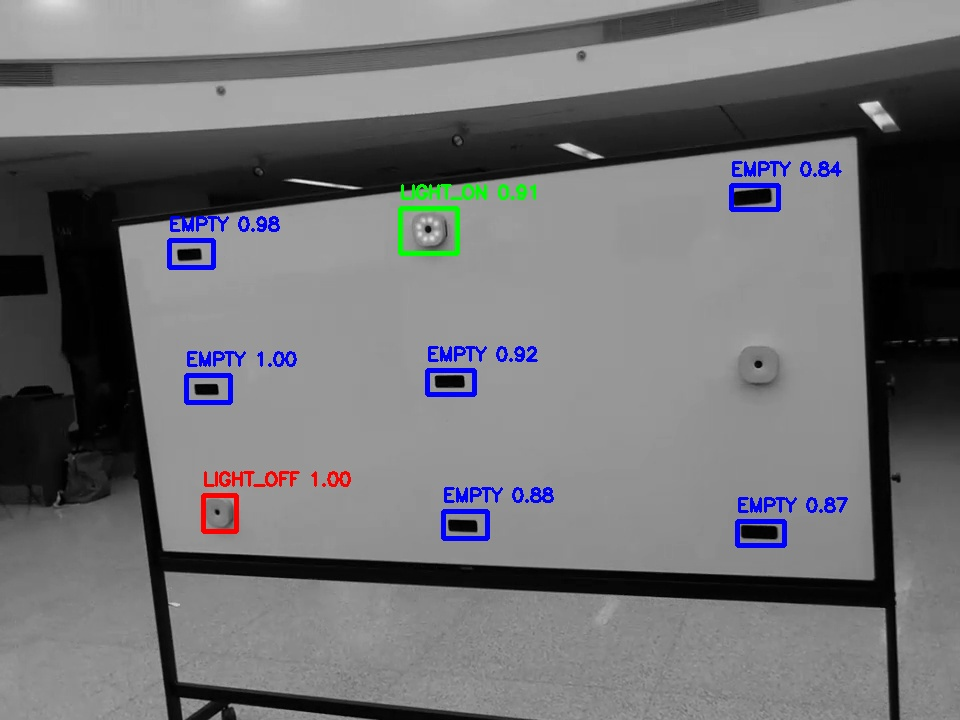
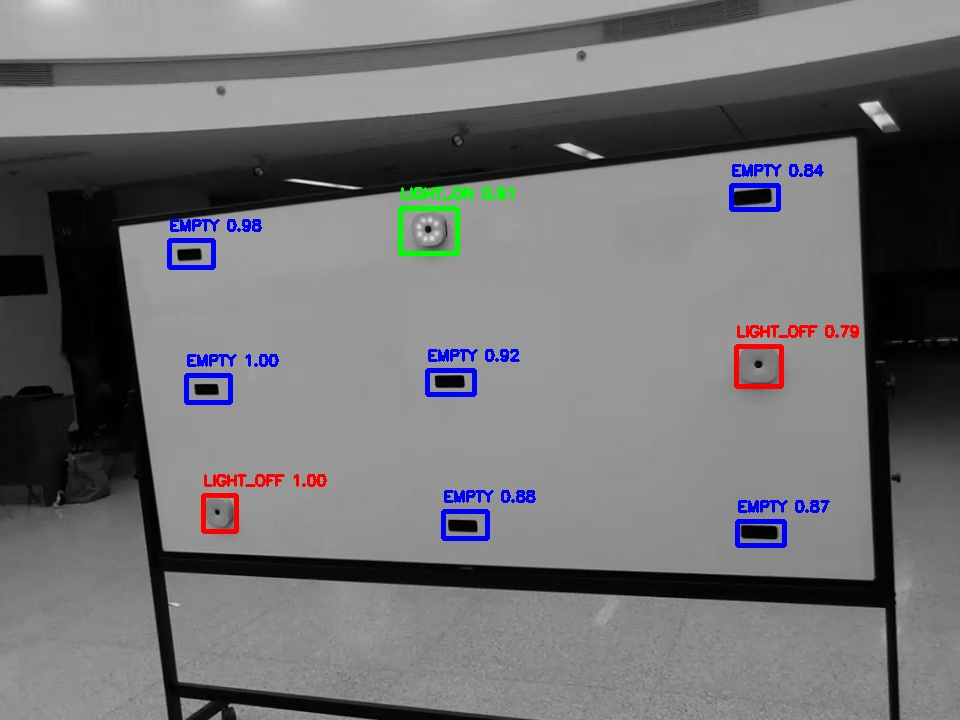
增加网格匹配逻辑

diff --git a/scripts/test_find_template.py b/scripts/test_find_template.py
@@ -12,41 +12,18 @@ import numpy as np
 
 TEMPLATES = {
     "EMPTY":     (["template/EMPTY_1.png", "template/EMPTY_2.png"],     (255, 0, 0)),      # 蓝
-    "LIGHT_ON":  ("template/LIGHT_ON.png",  (0, 255, 0)),      # 绿
-    "LIGHT_OFF": (["template/LIGHT_OFF_1.png","template/LIGHT_OFF_2.png","template/LIGHT_OFF_3.png"], (0, 0, 255)),      # 红
+    "LIGHT_ON":  (["template/LIGHT_ON_1.png", "template/LIGHT_ON_2.png"],  (0, 255, 0)),      # 绿
+    "LIGHT_OFF": (["template/LIGHT_OFF_1.png","template/LIGHT_OFF_2.png","template/LIGHT_OFF_3.png","template/LIGHT_OFF_4.png"], (0, 0, 255)),      # 红
 }
 
-# 若一个类型有多张样张，覆盖掉上面同名 key 即可（用列表替代单路径）
-# 示例：LIGHT_ON 有 3 种样张，EMPTY 有 2 种
-# TEMPLATES = {
-#     "EMPTY":     (["template/EMPTY_1.png", "template/EMPTY_2.png"], (255, 0, 0)),
-#     "LIGHT_ON":  (["template/LIGHT_ON_a.png", "template/LIGHT_ON_b.png", "template/LIGHT_ON_c.png"], (0, 255, 0)),
-#     "LIGHT_OFF": ("template/LIGHT_OFF.png", (0, 0, 255)),
-# }
+THRESHOLD = 0.75
 
-THRESHOLD = 0.8
-
-
-def match_template(gray_img, gray_tmpl):
-    """匹配单个模板，返回原始匹配列表 [(x, y, confidence, tw, th), ...]"""
-    th, tw = gray_tmpl.shape
-    result = cv2.matchTemplate(gray_img, gray_tmpl, cv2.TM_CCOEFF_NORMED)
-    ys, xs = np.where(result >= THRESHOLD)
-    return [(x, y, result[y, x], tw, th) for x, y in zip(xs, ys)]
-
-
-def nms(matches, min_dist=None):
-    """非极大值抑制，返回去重后的匹配列表"""
-    if not matches:
-        return []
-    if min_dist is None:
-        min_dist = min(min(m[3], m[4]) for m in matches) // 2
-    matches = sorted(matches, key=lambda m: -m[2])  # 按置信度降序
-    keep = []
-    for m in matches:
-        if all(np.hypot(m[0] - k[0], m[1] - k[1]) > min_dist for k in keep):
-            keep.append(m)
-    return keep
+# 白板 3×3 目标点的三维世界坐标 (x, y, z)，行优先
+WORLD_TARGETS = [
+    (-75, 220, 150), (0, 220, 150), (75, 220, 150),
+    (-75, 220, 112.5), (0, 220, 112.5), (75, 220, 112.5),
+    (-75, 220, 75), (0, 220, 75), (75, 220, 75),
+]
 
 
 def main():
@@ -61,41 +38,102 @@ def main():
         sys.exit(1)
 
     gray = cv2.cvtColor(bgr, cv2.COLOR_BGR2GRAY)
-    total = 0
 
-    for name, (paths, color) in TEMPLATES.items():
+    # ========================
+    #  跨类型模板匹配 + 网格映射
+    # ========================
+    all_matches = []
+    for name, (paths, _) in TEMPLATES.items():
         if isinstance(paths, str):
             paths = [paths]
-
-        all_matches = []  # 收集该类型所有样张的匹配
         for tmpl_path in paths:
-            template = cv2.imread(tmpl_path)
+            template = cv2.imread(tmpl_path, cv2.IMREAD_GRAYSCALE)
             if template is None:
                 print(f"无法读取模板: {tmpl_path}，跳过")
                 continue
+            th, tw = template.shape
+            result = cv2.matchTemplate(gray, template, cv2.TM_CCOEFF_NORMED)
+            ys, xs = np.where(result >= THRESHOLD)
+            print(f"[{name}] 模板 {tmpl_path}: {len(xs)} 个原始匹配")
+            for x, y in zip(xs, ys):
+                all_matches.append((x, y, float(result[y, x]), name, tw, th))
 
-            gray_tmpl = cv2.cvtColor(template, cv2.COLOR_BGR2GRAY)
-            raw = match_template(gray, gray_tmpl)
-            print(f"[{name}] 模板 {tmpl_path}: {len(raw)} 个原始匹配")
-            all_matches.extend(raw)
+    if not all_matches:
+        print("未检测到任何匹配")
+        return
 
-        # 合并后统一 NMS，避免同位置多框
-        matches = nms(all_matches)
-        print(f"[{name}] NMS 后保留 {len(matches)} 个匹配")
+    # 跨类型 NMS
+    all_matches.sort(key=lambda m: -m[2])
+    min_dist = min(min(m[4], m[5]) for m in all_matches) // 2
+    keep = []
+    for m in all_matches:
+        if all(np.hypot(m[0] - k[0], m[1] - k[1]) > min_dist for k in keep):
+            keep.append(m)
+    print(f"\n跨类型 NMS 后保留 {len(keep)} 个点\n")
 
-        for i, (x, y, conf, tw, th) in enumerate(matches):
-            print(f"    [{i + 1}] 位置: ({x}, {y})  置信度: {conf:.4f}")
-            cv2.rectangle(bgr, (x, y), (x + tw, y + th), color, 3)
-            cv2.putText(bgr, f"{name} {conf:.2f}", (x, y - 10),
-                        cv2.FONT_HERSHEY_SIMPLEX, 0.6, color, 2)
-        total += len(matches)
+    # 3×3 网格映射
+    if len(keep) < 3:
+        print("检测点太少，无法构建 3×3 网格")
+        return
 
-    print(f"\n共检测到 {total} 个目标")
+    xs = [m[0] for m in keep]
+    ys = [m[1] for m in keep]
+    x_min, x_max = min(xs), max(xs)
+    y_min, y_max = min(ys), max(ys)
+    cell_w = (x_max - x_min) / 3.0
+    cell_h = (y_max - y_min) / 3.0
+
+    # 分配点到网格单元
+    grid_map = {}
+    for m in keep:
+        col = int((m[0] - x_min) / cell_w)
+        row = int((m[1] - y_min) / cell_h)
+        col = max(0, min(2, col))
+        row = max(0, min(2, row))
+        key = (row, col)
+        if key not in grid_map or m[2] > grid_map[key][2]:
+            grid_map[key] = m
+
+    print("=" * 60)
+    print(f"网格: bounding box ({x_min}, {y_min}) ~ ({x_max}, {y_max})")
+    print(f"单元格: {cell_w:.0f} × {cell_h:.0f} px")
+    print(f"映射到 {len(grid_map)} 个格子\n")
+
+    colors = {k: v[1] for k, v in TEMPLATES.items()}
+    for row in range(3):
+        for col in range(3):
+            key = (row, col)
+            idx = row * 3 + col
+            wx, wy, wz = WORLD_TARGETS[idx]
+            if key in grid_map:
+                m = grid_map[key]
+                x, y, conf, ttype, tw, th = m
+                color = colors[ttype]
+                print(f"  ({row},{col}) {ttype:9s}  conf={conf:.3f}  pixel=({x},{y})  →  world ({wx}, {wy}, {wz})")
+
+                cv2.rectangle(bgr, (x, y), (x + tw, y + th), color, 3)
+                label = f"{ttype} {conf:.2f}"
+                cv2.putText(bgr, label, (x, y - 10),
+                            cv2.FONT_HERSHEY_SIMPLEX, 0.5, color, 2)
+            else:
+                print(f"  ({row},{col}) (空)                                  →  world ({wx}, {wy}, {wz})")
+    print("=" * 60)
+
+    # 高亮 LIGHT_ON
+    light_on_found = False
+    for (row, col), m in grid_map.items():
+        if m[3] == "LIGHT_ON":
+            idx = row * 3 + col
+            wx, wy, wz = WORLD_TARGETS[idx]
+            print(f"\n*** LIGHT_ON 世界坐标: ({wx}, {wy}, {wz}) ***")
+            light_on_found = True
+    if not light_on_found:
+        print("\n未检测到 LIGHT_ON")
 
     base = os.path.splitext(os.path.basename(img_path))[0]
     out_path = os.path.join(os.path.dirname(img_path), f"{base}_template_match.jpg")
     cv2.imwrite(out_path, bgr)
-    print(f"结果已保存: {out_path}")
+    print(f"\n结果已保存: {out_path}")
 
 
 if __name__ == "__main__":

diff --git a/scripts/Tello.py b/scripts/Tello.py
@@ -281,8 +281,8 @@ class TelloControl:
     # 模板匹配配置：类型 → 模板路径列表
     TEMPLATE_PATHS = {
         "EMPTY":     ["template/EMPTY_1.png", "template/EMPTY_2.png"],
-        "LIGHT_ON":  ["template/LIGHT_ON.png"],
-        "LIGHT_OFF": ["template/LIGHT_OFF_1.png", "template/LIGHT_OFF_2.png", "template/LIGHT_OFF_3.png"],
+        "LIGHT_ON":  ["template/LIGHT_ON_1.png", "template/LIGHT_ON_2.png"],
+        "LIGHT_OFF": ["template/LIGHT_OFF_1.png", "template/LIGHT_OFF_2.png", "template/LIGHT_OFF_3.png", "template/LIGHT_OFF_4.png"],
     }
     TEMPLATE_THRESHOLD = 0.8
 
@@ -327,6 +327,9 @@ class TelloControl:
 
             frame = self.state.image.copy()
             gray = cv2.cvtColor(frame, cv2.COLOR_BGR2GRAY)
+            timestamp = time.strftime("%Y%m%d_%H%M%S")
+            cv2.imwrite(f"./image/gray_{timestamp}.jpg", gray)
+
             matches = self._match_templates(gray)
 
             # 期望检测到 9 个格子点，允许少量误差
@@ -336,15 +339,39 @@ class TelloControl:
                     return None
                 continue
 
-            # 若多于 9 个，取置信度最高的 9 个
-            best9 = sorted(matches, key=lambda m: -m[2])[:9]
-            # 按像素位置排序：行优先（从上到下，从左到右），对应 WHITEBOARD_TARGETS
-            best9.sort(key=lambda m: (m[1], m[0]))  # (y, x)
+            # 取置信度最高的若干个点（至少 9 个）
+            best = sorted(matches, key=lambda m: -m[2])[:max(len(matches), 9)]
 
-            for i, m in enumerate(best9):
+            # 用 x/y 极值确定 3×3 点阵的包围盒
+            xs = [m[0] for m in best]
+            ys = [m[1] for m in best]
+            x_min, x_max = min(xs), max(xs)
+            y_min, y_max = min(ys), max(ys)
+
+            if x_max - x_min < 1 or y_max - y_min < 1:
+                rospy.sleep(0.5)
+                continue
+
+            cell_w = (x_max - x_min) / 3.0
+            cell_h = (y_max - y_min) / 3.0
+
+            # 将每个点分配到最近的网格单元 (row, col)
+            grid_map = {}  # (row, col) → match
+            for m in best:
+                col = int((m[0] - x_min) / cell_w)
+                row = int((m[1] - y_min) / cell_h)
+                col = max(0, min(2, col))
+                row = max(0, min(2, row))
+                key = (row, col)
+                if key not in grid_map or m[2] > grid_map[key][2]:
+                    grid_map[key] = m
+
+            # 查找 LIGHT_ON 对应的网格位置
+            for (row, col), m in grid_map.items():
                 if m[3] == "LIGHT_ON":
+                    i = row * 3 + col
                     world_x, world_y, world_z = self.WHITEBOARD_TARGETS[i]
-                    rospy.loginfo(f"Whiteboard LIGHT_ON at grid[{i}] → target ({world_x:.1f}, {world_y:.1f}, {world_z:.1f})")
+                    rospy.loginfo(f"Whiteboard LIGHT_ON at grid({row},{col}) → target ({world_x:.1f}, {world_y:.1f}, {world_z:.1f})")
                     return (world_x, world_y, world_z)
 
             rospy.logwarn("Whiteboard 3×3 detected but no LIGHT_ON found")